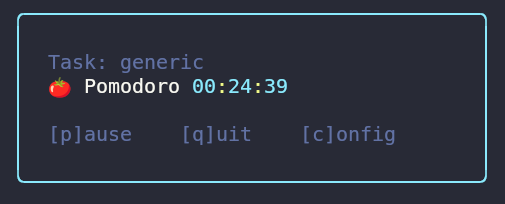
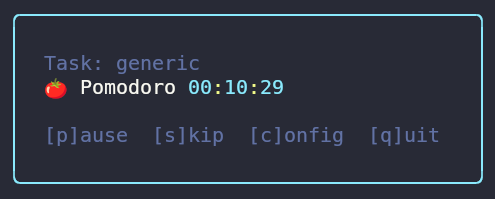
feat(timer): add skip session with double-confirm
- add skipCycle() to state.ts: advances cycle without recording a session
  in metrics (distinct from advanceCycle which records completed sessions)
- add onSkip prop to TimerScreen and App, wire skipCycle through the chain
- TimerScreen: [s] sets skipPending, second [s] within 3s confirms skip,
  timeout auto-cancels pending state — no extra screen, pure keyboard UX
- remove unused advanceCycle prop from App (still used in main.ts onTimeUp)
- update hints line to show [s]kip when idle, confirmation prompt when pending

diff --git a/src/ui/TimerScreen.tsx b/src/ui/TimerScreen.tsx
@@ -16,16 +16,18 @@ interface Props {
   updateState: (partial: Partial<TimerState>) => void;
   onQuit: () => void;
   onConfig: () => void;
+  onSkip: () => void;
   onTimeUp: () => void;
 }
 
-export function TimerScreen({ getState, updateState, onQuit, onConfig, onTimeUp }: Props) {
+export function TimerScreen({ getState, updateState, onQuit, onConfig, onSkip, onTimeUp }: Props) {
   const [seconds, setSeconds] = useState(() => getState().secondsLeft);
   const [isPaused, setIsPaused] = useState(false);
   const [mode, setMode] = useState(() => getState().currentMode);
   const [task, setTask] = useState(() => getState().currentTask);
+  const [skipPending, setSkipPending] = useState(false);
 
-  // Sync loop — pulls external state changes (cycle advance, config update)
+  // Sync loop
   useEffect(() => {
     const sync = setInterval(() => {
       const s = getState();
@@ -51,13 +53,29 @@ export function TimerScreen({ getState, updateState, onQuit, onConfig, onTimeUp 
       });
     }, 1000);
     return () => clearInterval(tick);
-  }, [isPaused, mode]); // mode change restarts the countdown
+  }, [isPaused, mode]);
+
+  // Skip confirmation timeout — auto-cancel after 3s
+  useEffect(() => {
+    if (!skipPending) return;
+    const timeout = setTimeout(() => setSkipPending(false), 3000);
+    return () => clearTimeout(timeout);
+  }, [skipPending]);
 
   useInput((input, key) => {
     if (input === "p" || input === " ") {
       const next = !isPaused;
       setIsPaused(next);
       updateState({ isPaused: next });
+    } else if (input === "s") {
+      if (skipPending) {
+        // second s — confirm skip
+        setSkipPending(false);
+        setTimeout(() => onSkip(), 0);
+      } else {
+        // first s — ask for confirmation
+        setSkipPending(true);
+      }
     } else if (input === "q" || (key.ctrl && input === "c")) {
       onQuit();
     } else if (input === "c") {
@@ -85,7 +103,10 @@ export function TimerScreen({ getState, updateState, onQuit, onConfig, onTimeUp 
           {isPaused && <Text color="red"> [PAUSED]</Text>}
         </Text>
         <Text> </Text>
-        <Text color="gray">[p]ause    [q]uit    [c]onfig</Text>
+        {skipPending
+          ? <Text color="yellow">skip? press [s] again to confirm (3s)</Text>
+          : <Text color="gray">[p]ause  [s]kip  [c]onfig  [q]uit</Text>
+        }
       </Box>
     </Box>
   );

diff --git a/src/core/state.ts b/src/core/state.ts
@@ -78,10 +78,29 @@ export function createState(configPath: string, metricsPath: string) {
     _state = newState;
   }
 
+
+  function skipCycle(): void {
+    const currentState = getOrCreateState();
+    const newState = { ...currentState };
+    const config = currentState.config;
+
+    // Skip — advance cycle WITHOUT recording a session in metrics
+    if (newState.currentMode === "pomodoro") {
+      newState.currentCycle++;
+      newState.currentMode = newState.currentCycle % 4 === 0 ? "longBreak" : "shortBreak";
+    } else {
+      newState.currentMode = "pomodoro";
+    }
+
+    newState.secondsLeft = config[newState.currentMode];
+    _state = newState;
+  }
+
   return {
     getState,
     updateState,
     resetState,
     advanceCycle,
+    skipCycle,
   };
 }

diff --git a/src/ui/App.tsx b/src/ui/App.tsx
@@ -10,12 +10,12 @@ interface Props {
   configPath: string;
   getState: () => TimerState;
   updateState: (partial: Partial<TimerState>) => void;
-  advanceCycle: () => void;
+  skipCycle: () => void;
   onQuit: () => void;
   onTimeUp: () => void;
 }
 
-export function App({ configPath, getState, updateState, advanceCycle, onQuit, onTimeUp }: Props) {
+export function App({ configPath, getState, updateState, skipCycle, onQuit, onTimeUp }: Props) {
   const [screen, setScreen] = useState<AppScreen>("timer");
   const [completedMode, setCompletedMode] = useState<string>("pomodoro");
 
@@ -48,6 +48,10 @@ export function App({ configPath, getState, updateState, advanceCycle, onQuit, o
       updateState={updateState}
       onQuit={onQuit}
       onConfig={() => setScreen("config")}
+      onSkip={() => {
+        skipCycle();
+        updateState({ secondsLeft: getState().secondsLeft });
+      }}
       onTimeUp={() => {
         setCompletedMode(getState().currentMode);
         setScreen("timeup");

diff --git a/src/main.ts b/src/main.ts
@@ -44,7 +44,7 @@ const METRICS_PATH = resolveMetricsPath(metricsPathArg);
 const taskLabel = getArgValue("--task");
 
 const state = createState(CONFIG_PATH, METRICS_PATH);
-const { getState, updateState, advanceCycle } = state;
+const { getState, updateState, advanceCycle, skipCycle } = state;
 updateState({ currentTask: taskLabel || "generic" });
 
 if (argv.includes("--print-paths") || argv.includes("--show-paths")) {
@@ -101,7 +101,7 @@ function main() {
           configPath: CONFIG_PATH,
           getState,
           updateState,
-          advanceCycle,
+          skipCycle,
           onQuit: () => { unmount(); process.exit(0); },
           onTimeUp: () => {
             showTimeUpNotification(getState().currentMode);

diff --git a/README.md b/README.md
@@ -62,6 +62,7 @@ ______________________________________________________________________
 | Key | Action |
 |-----|--------|
 | `p` or `space` | Pause / Resume |
+| `s` (×2) | Skip current session (no metrics recorded) |
 | `c` | Open config menu |
 | `q` | Quit |
 